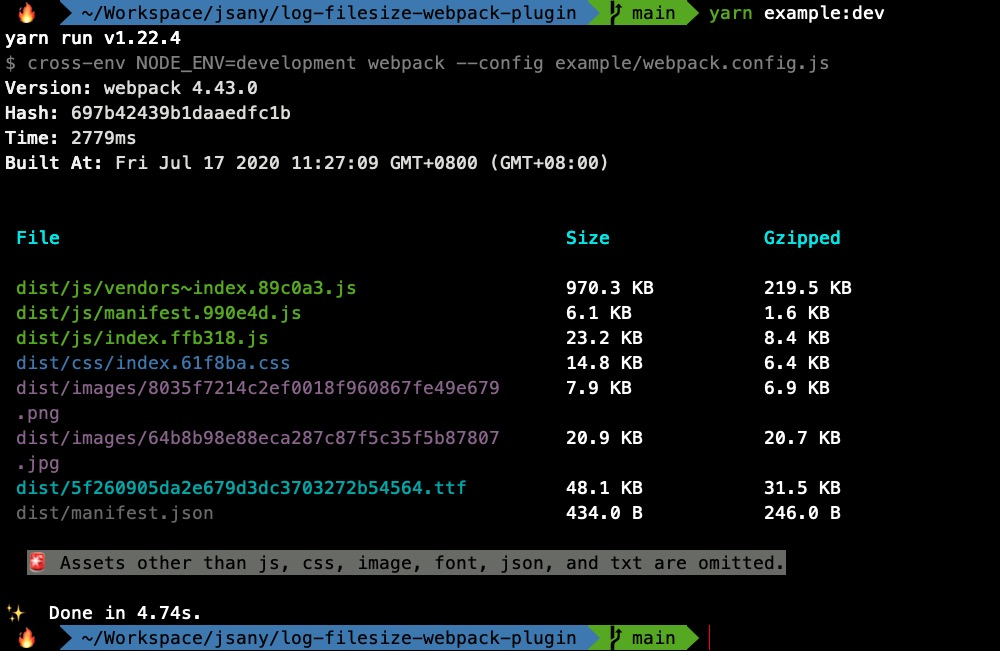
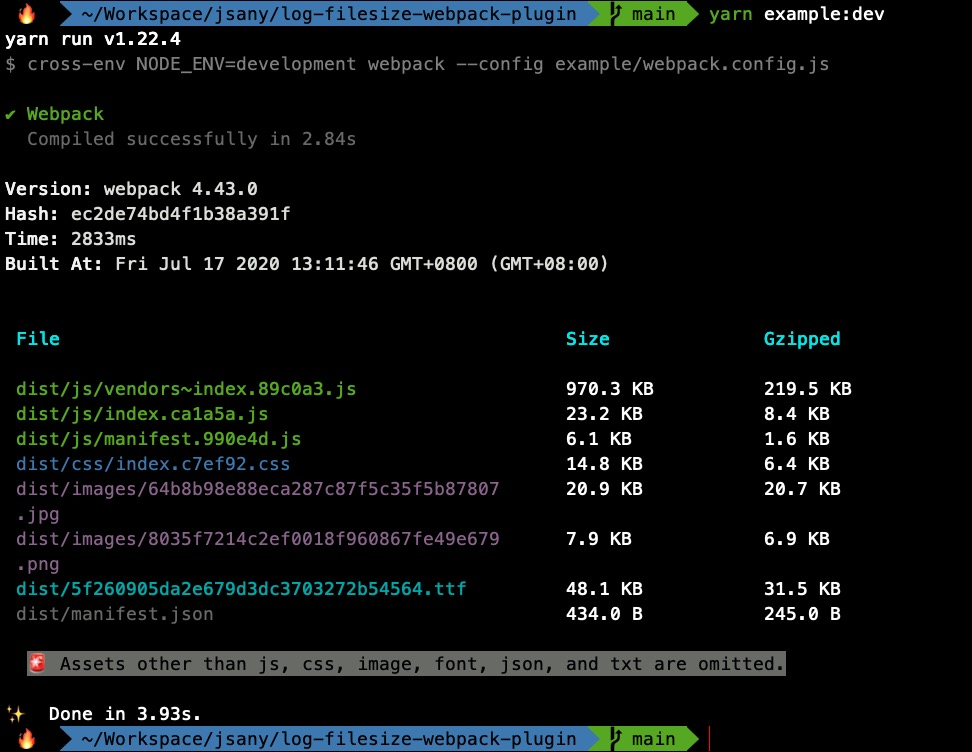
docs: example use ts

Changed region(s): [[0.0, 0.4301, 0.8951, 1.0], [0.0, 0.0, 0.9259, 0.3994], [0.7716, 0.3379, 0.8333, 0.3994]]

diff --git a/src/index.ts b/src/index.ts
@@ -37,6 +37,17 @@ const defaultOptions: IOptions = {
   maxSize: 1.8 * 1024 * 1024
 };
 
+const getKnownType = (val: string) => {
+  if(isJS(val)) return 'js';
+  if(isCSS(val)) return 'css';
+  if(isIMAGE(val)) return 'image';
+  if(isFONT(val)) return 'font';
+  if(isJSON(val)) return 'json';
+  if(isTXT(val)) return 'txt';
+  // return void 0;
+  return undefined;
+}
+
 class LogFilesizeWebpackPlugin {
   private options: IOptions;
 
@@ -44,6 +55,10 @@ class LogFilesizeWebpackPlugin {
     this.options = this.mergeOptions(options, defaultOptions);
   }
   public apply = (compiler: Compiler) => {
+
+    compiler.hooks.afterEmit.tap('LogFilesizeWebpackPlugin', compilation => {
+      // TODO: use file.type(MIME) instead of regexp
+    })
     compiler.hooks.done.tap('LogFilesizeWebpackPlugin', (stats) => {
       // console.log('===== done =====');
       // console.log(stats);
@@ -79,36 +94,41 @@ class LogFilesizeWebpackPlugin {
           suggested: isLarge && isJS(a.name)
         };
       })
-      .filter((a, i, arr) => {
+      .filter((a,i,arr) => {
         if (seenNames.has(a.name)) {
           return false;
         }
         seenNames.set(a.name, true);
 
-        if (isJS(a.name)) {
-          // @ts-ignore
-          arr[i]['pos'] = 'z' + a.size;
+        switch (getKnownType(a.name)){
+          case 'js':
+            // @ts-ignore
+            arr[i]['pos'] = 6e10 + a.size;
+            break;
+          case 'css':
+            // @ts-ignore
+            arr[i]['pos'] = 5e10 + a.size;
+            break;
+          case 'image':
+            // @ts-ignore
+            arr[i]['pos'] = 4e10 + a.size;
+            break;
+          case 'font':
+            // @ts-ignore
+            arr[i]['pos'] = 3e10 + a.size;
+            break;
+          case 'json':
+            // @ts-ignore
+            arr[i]['pos'] = 2e10 + a.size;
+            break;
+          case 'txt':
+            // @ts-ignore
+            arr[i]['pos'] = 1e10 + a.size;
+            break;
+          default:
+            break;
         }
-        if (isCSS(a.name)) {
-          // @ts-ignore
-          arr[i]['pos'] = 'y' + a.size;
-        }
-        if (isIMAGE(a.name)) {
-          // @ts-ignore
-          arr[i]['pos'] = 'x' + a.size;
-        }
-        if (isFONT(a.name)) {
-          // @ts-ignore
-          arr[i]['pos'] = 'w' + a.size;
-        }
-        if (isJSON(a.name)) {
-          // @ts-ignore
-          arr[i]['pos'] = 'v' + a.size;
-        }
-        if (isTXT(a.name)) {
-          // @ts-ignore
-          arr[i]['pos'] = 'u' + a.size;
-        }
+
         const isKnown =
           isJS(a.name) ||
           isCSS(a.name) ||
@@ -120,7 +140,7 @@ class LogFilesizeWebpackPlugin {
       })
       .sort((a, b) => {
         // @ts-ignore
-        return b.pos < a.pos ? -1 : 1;
+        return b.pos - a.pos;
       });
 
     // console.log('== orderedAssets ==')

diff --git a/example/webpack.config.js b/example/webpack.config.js
@@ -4,13 +4,13 @@ const { CleanWebpackPlugin } = require('clean-webpack-plugin');
 const OptimizeCSSPlugin = require('optimize-css-assets-webpack-plugin');
 const MiniCssExtractPlugin = require('mini-css-extract-plugin');
 const ManifestPlugin = require('webpack-manifest-plugin');
+const WebpackBar = require('webpackbar');
 const LogFilesizeWebpackPlugin = require('../lib/index');
 
 module.exports = {
   mode: process.env.NODE_ENV,
-  // mode: 'production',
   entry: {
-    index: resolve(__dirname, './src/index.js')
+    index: resolve(__dirname, './src/index.tsx')
   },
   output: {
     path: resolve(__dirname, '../dist'),
@@ -20,15 +20,13 @@ module.exports = {
   stats: 'none',
   
   resolve: {
-    alias: {
-      '@/': resolve(__dirname, './src/'),
-    },
+    extensions: ['.js', '.jsx', '.ts', '.tsx'],
   },
 
   module: {
     rules: [
       {
-        test: /\.js$/,
+        test: /\.js(x?)$/,
         include: resolve(__dirname, './src'),
         use: [
           {
@@ -60,7 +58,20 @@ module.exports = {
         ]
       },
       {
+        test: /\.ts(x?)$/,
+        include: resolve(__dirname, './src'),
+        use: [
+          {
+            loader: 'babel-loader',
+            options: {
+              presets: ['@babel/preset-env', '@babel/preset-react', '@babel/preset-typescript'],
+            },
+          },
+        ],
+      },
+      {
         test: /\.(le|c)ss$/,
+        include: resolve(__dirname, './src'),
         use: [
           MiniCssExtractPlugin.loader,
           {
@@ -85,7 +96,7 @@ module.exports = {
       },
       {
         test: /\.(png|jpg|jpeg|gif|svg|svga)$/,
-        exclude: /(node_modules|bower_components)/,
+        include: resolve(__dirname, './src'),
         use: [
           {
             // 需要下载file-loader和url-loader
@@ -100,7 +111,7 @@ module.exports = {
       },
       {
         test: /[\\.](woff2?|eot|ttf|otf)$/,
-        exclude: /(node_modules|bower_components)/,
+        include: resolve(__dirname, './src'),
         loader: 'url-loader',
         options: {
           limit: 10000
@@ -136,6 +147,7 @@ module.exports = {
         safe: true
       }
     }),
+    new WebpackBar(),
     // 分离css
     new MiniCssExtractPlugin({
       // Options similar to the same options in webpackOptions.output
@@ -144,6 +156,6 @@ module.exports = {
       chunkFilename: 'css/[id].[contenthash:6].css'
     }),
     new ManifestPlugin(),
-    new LogFilesizeWebpackPlugin({ gzip: true })
+    new LogFilesizeWebpackPlugin()
   ]
 };

diff --git a/src/helper/fileType.ts b/src/helper/fileType.ts
@@ -1,7 +1,9 @@
-
 export const isJS = (val: string) => /[\\.]js$/.test(val);
 export const isCSS = (val: string) => /[\\.]css$/.test(val);
-export const isIMAGE = (val: string) => /[\\.](bmp|jpg|png|tif|gif|pcx|tga|exif|fpx|svg|psd|cdr|pcd|dxf|ufo|eps|ai|raw|WMF|webp)$/i.test(val);
+export const isIMAGE = (val: string) =>
+  /[\\.](bmp|jpg|png|tif|gif|pcx|tga|exif|fpx|svg|psd|cdr|pcd|dxf|ufo|eps|ai|raw|WMF|webp)$/i.test(
+    val
+  );
 export const isJSON = (val: string) => /[\\.]json$/i.test(val);
 export const isFONT = (val: string) => /[\\.](ttf|otf|ttc|woff2|eot)$/i.test(val);
 export const isTXT = (val: string) => /[\\.]txt$/i.test(val);

diff --git a/example/src/utils/index.ts b/example/src/utils/index.ts
@@ -4,7 +4,7 @@
  * @param {number} min - 区间最小值,默认为0
  * @param {bool} int - 是否为整数,默认为true,即整数
  */
-export const generateRandom = (max, min = 0, int = true) => {
+export const generateRandom = (max: number, min = 0, int = true): number => {
   min = Math.ceil(min);
   max = Math.floor(max);
   const res = Math.random() * (max - min + 1) + min;

diff --git a/example/typings.d.ts b/example/typings.d.ts
@@ -1,0 +1,7 @@
+declare module '*.css';
+declare module '*.less';
+declare module '*.png';
+declare module '*.jpg';
+declare module '*.jpeg';
+declare module '*.svg';
+declare module '*.ttf';

diff --git a/README.md b/README.md
@@ -78,6 +78,7 @@ module.exports = {
 - [x] Support json
 - [x] Support font
 - [x] Support txt
+- [ ] Use file.type(MIME) instead of regexp
 - [ ] ...
 
 ### Support files with these extensions: [ext](./src/helper/fileType.ts)
